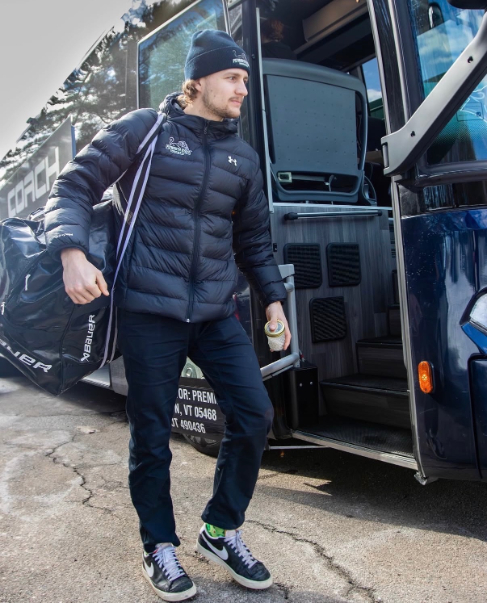
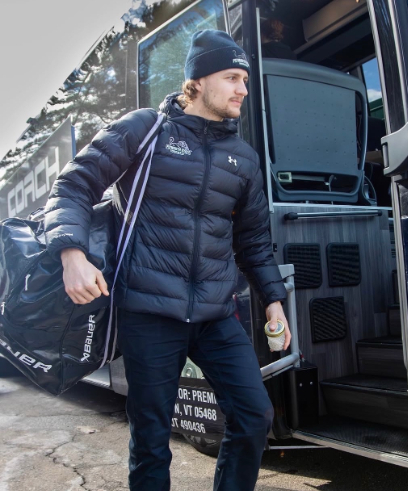
image layout on mobile

diff --git a/src/app/page.tsx b/src/app/page.tsx
@@ -100,18 +100,18 @@ export default async function Home() {
 
         {/* HOCKEY PHOTO */}
         <section className="tile group relative aspect-[4/3] md:aspect-auto md:col-span-8 md:row-span-2">
-          <div className="absolute inset-0 grid grid-cols-3 gap-[2px]">
+          <div className="absolute inset-0 grid grid-cols-2 gap-[2px] md:grid-cols-3">
             {[
               "/homepage-onice/onice-1.jpg",
               "/homepage-onice/onice-2.jpg",
               "/homepage-onice/onice-3.jpg",
             ].map((src, i) => (
-              <div key={src} className="relative overflow-hidden">
+              <div key={src} className={`relative overflow-hidden${i === 1 ? " hidden md:block" : ""}`}>
                 <Image
                   src={src}
                   alt="On the ice"
                   fill
-                  sizes="(min-width: 768px) 22vw, 33vw"
+                  sizes="(min-width: 768px) 22vw, 50vw"
                   className="object-cover transition-transform duration-500 group-hover:scale-[1.03]"
                   priority={i === 0}
                 />
